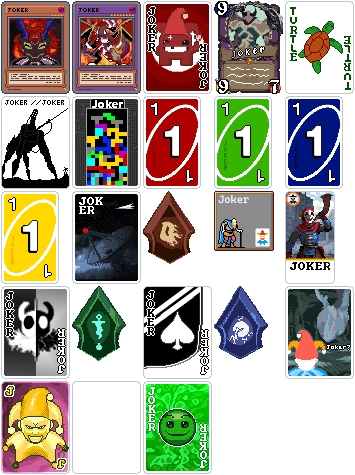
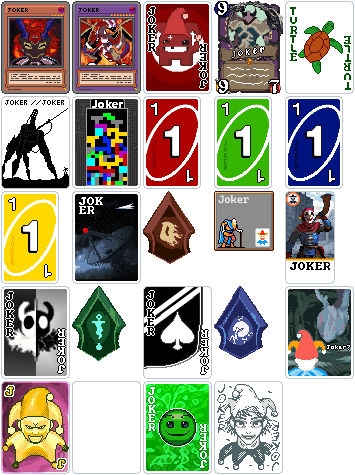
New Jokers

Changed region(s): [[0.5887, 0.7958, 0.8056, 1.0], [0.7746, 0.7958, 0.8056, 0.8253]]

diff --git a/README.md b/README.md
@@ -6,4 +6,5 @@ A Vanilla-Friendly Joker expansion mod for Balatro
 
 _Freh: Main dev
 
+u/Funk-Repair: Power Creep concept and sprite
 u/r2d2upgrade: Sprites for Jimbo the Forbidden One
